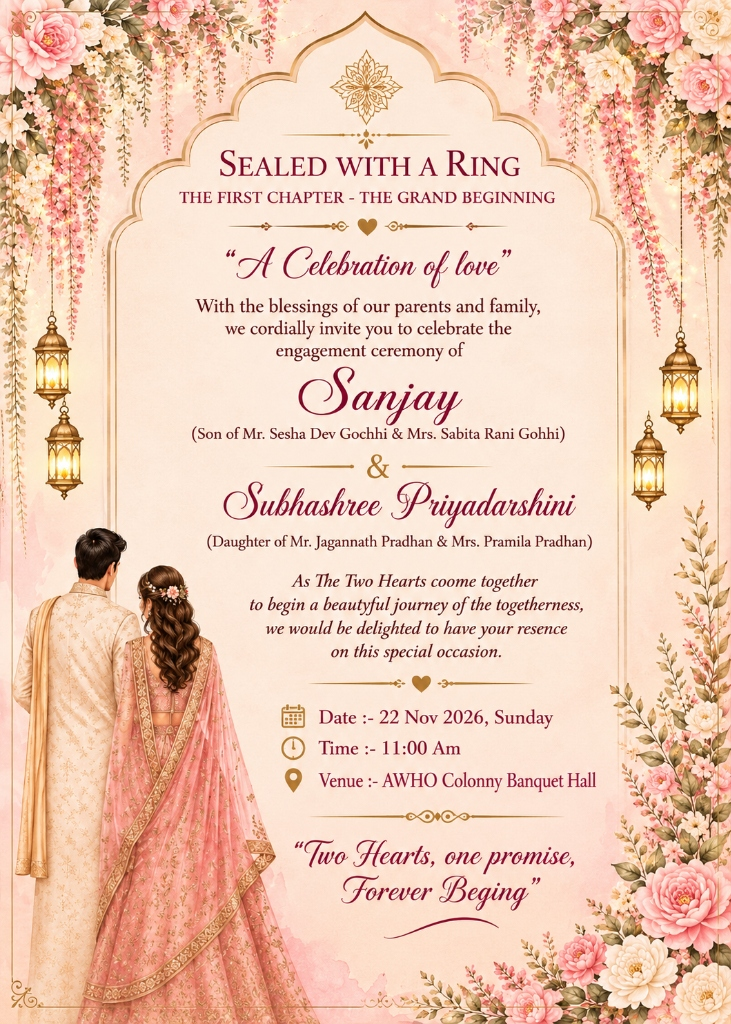
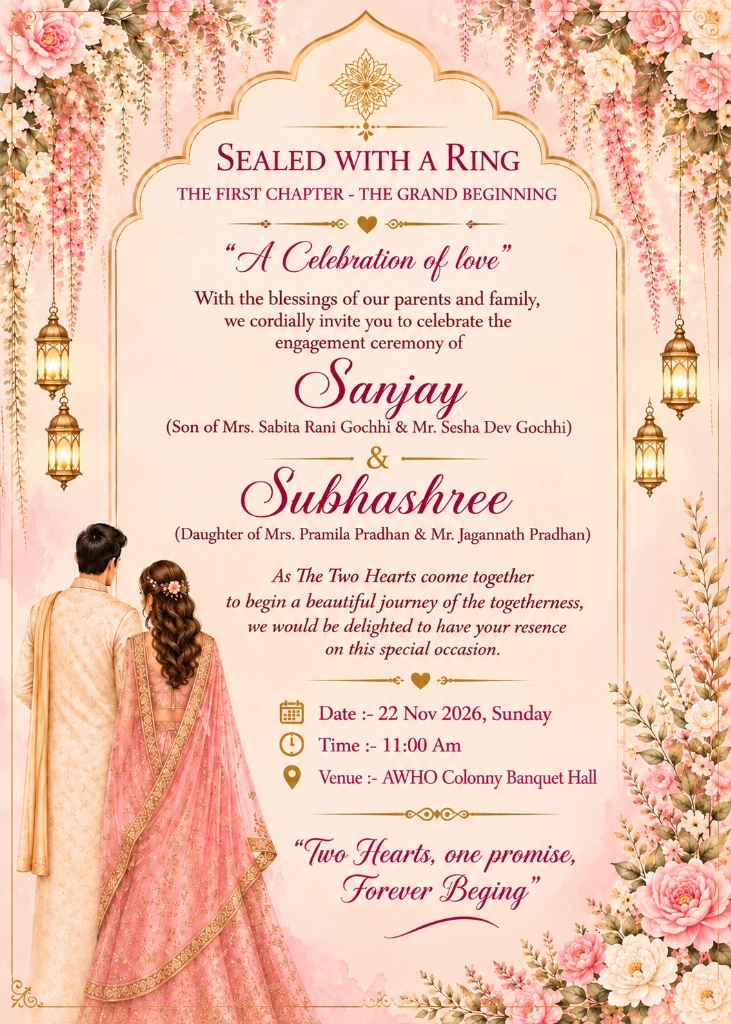
Replace engagement card with updated corrected card and bust cache

Changed region(s): [[0.0, 0.0, 1.0, 1.0], [0.5417, 0.0312, 0.6019, 0.0625]]

diff --git a/index.html b/index.html
@@ -5360,7 +5360,7 @@
 
             <div class="hero-parents">
 
-                (Son of Mr. Sesha Dev Gochhi &amp; Mrs. Sabita Rani Gochhi)
+                (Son of Mrs. Sabita Rani Gochhi &amp; Mr. Sesha Dev Gochhi)
 
             </div>
 
@@ -5386,7 +5386,7 @@
 
             <div class="hero-parents">
 
-                (Daughter of Mr. Jagannath Pradhan &amp; Mrs. Pramila Pradhan)
+                (Daughter of Mrs. Pramila Pradhan &amp; Mr. Jagannath Pradhan)
 
             </div>
 
@@ -5442,7 +5442,8 @@
 
             <div class="hero-venue-title">
 
-                Kanjiapada, Narasinghpur, Cuttack (Kataka) - 754037
+                Kanjiapada, PO/Ps - kanpur,<br>
+                Narasinghpur Cuttack (Kataka) - 754037
 
             </div>
 
@@ -5453,7 +5454,7 @@
             <div class="hero-location">
 
 
-                
+
 
 
             </div>
@@ -5484,7 +5485,8 @@
 
         <div class="engagement-container">
 
-            <img src="engagement.jpg" class="engagement-card" id="engagementCard" alt="Engagement Ceremony - Sealed With A Ring">
+            <img src="engagement.jpg?v=2" class="engagement-card" id="engagementCard"
+                alt="Engagement Ceremony - Sealed With A Ring">
 
         </div>
 
